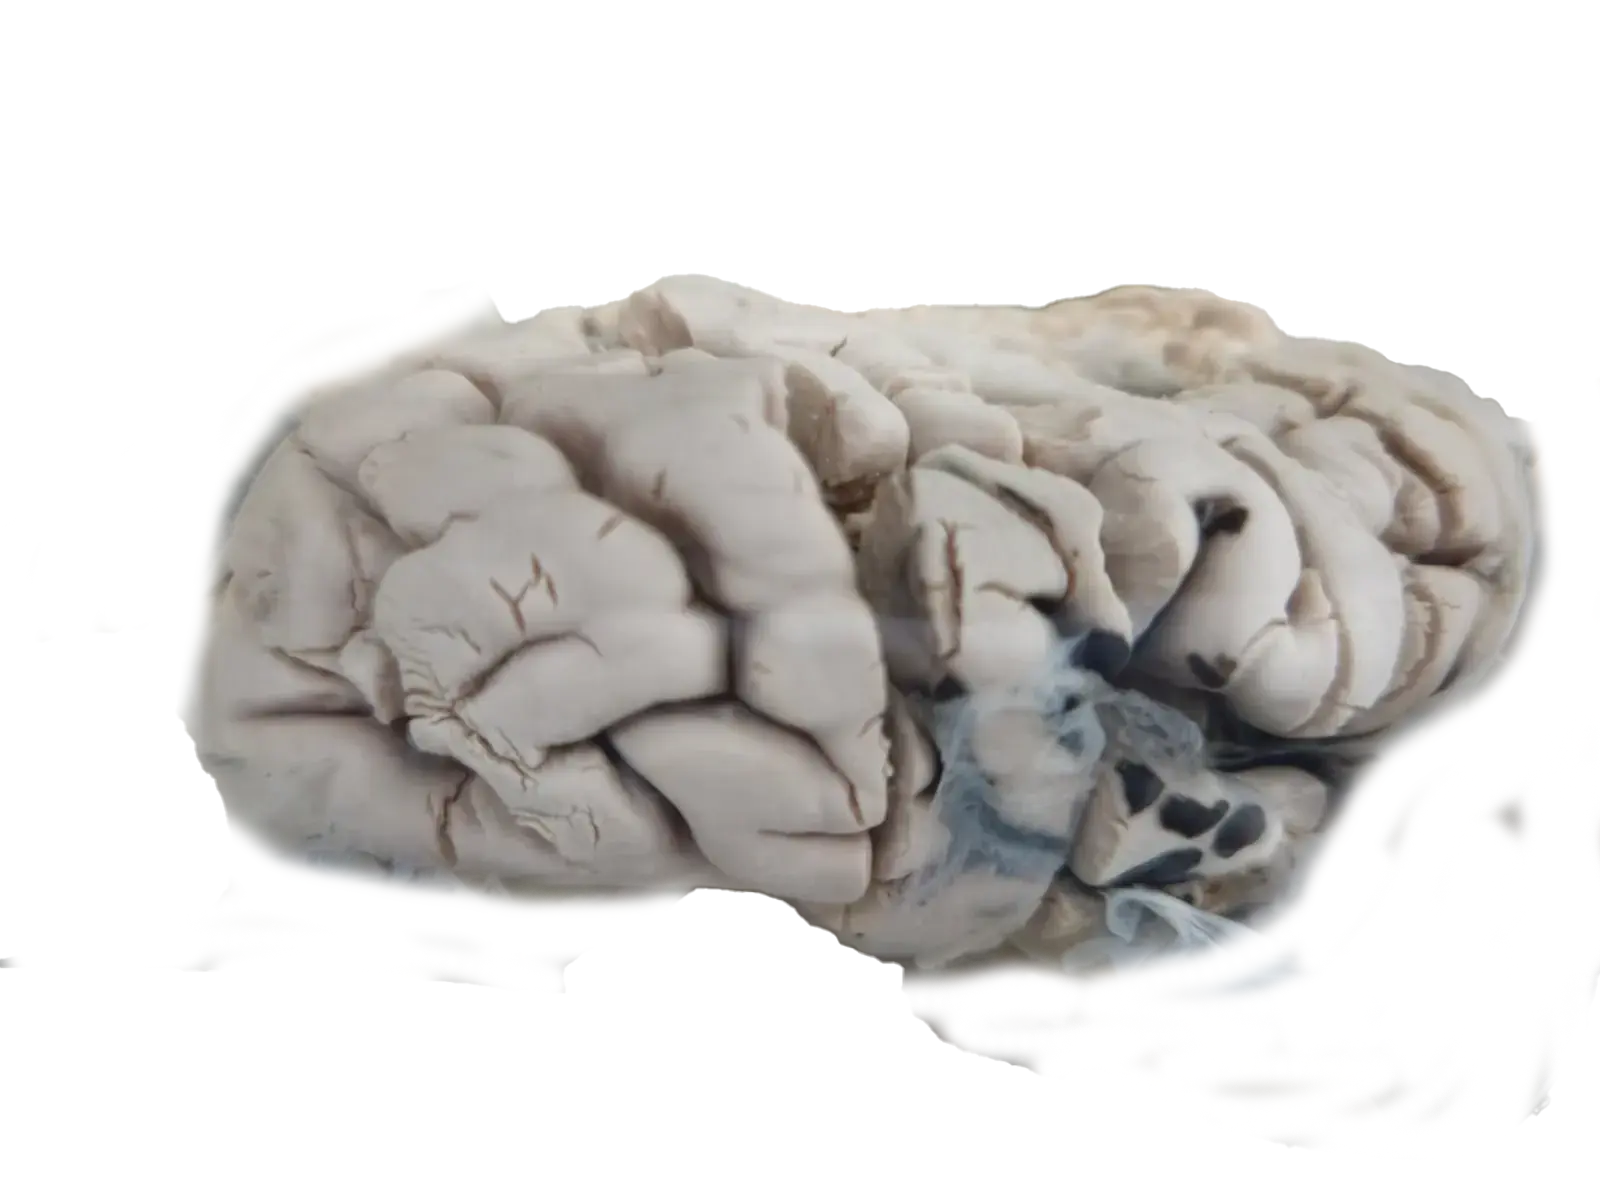
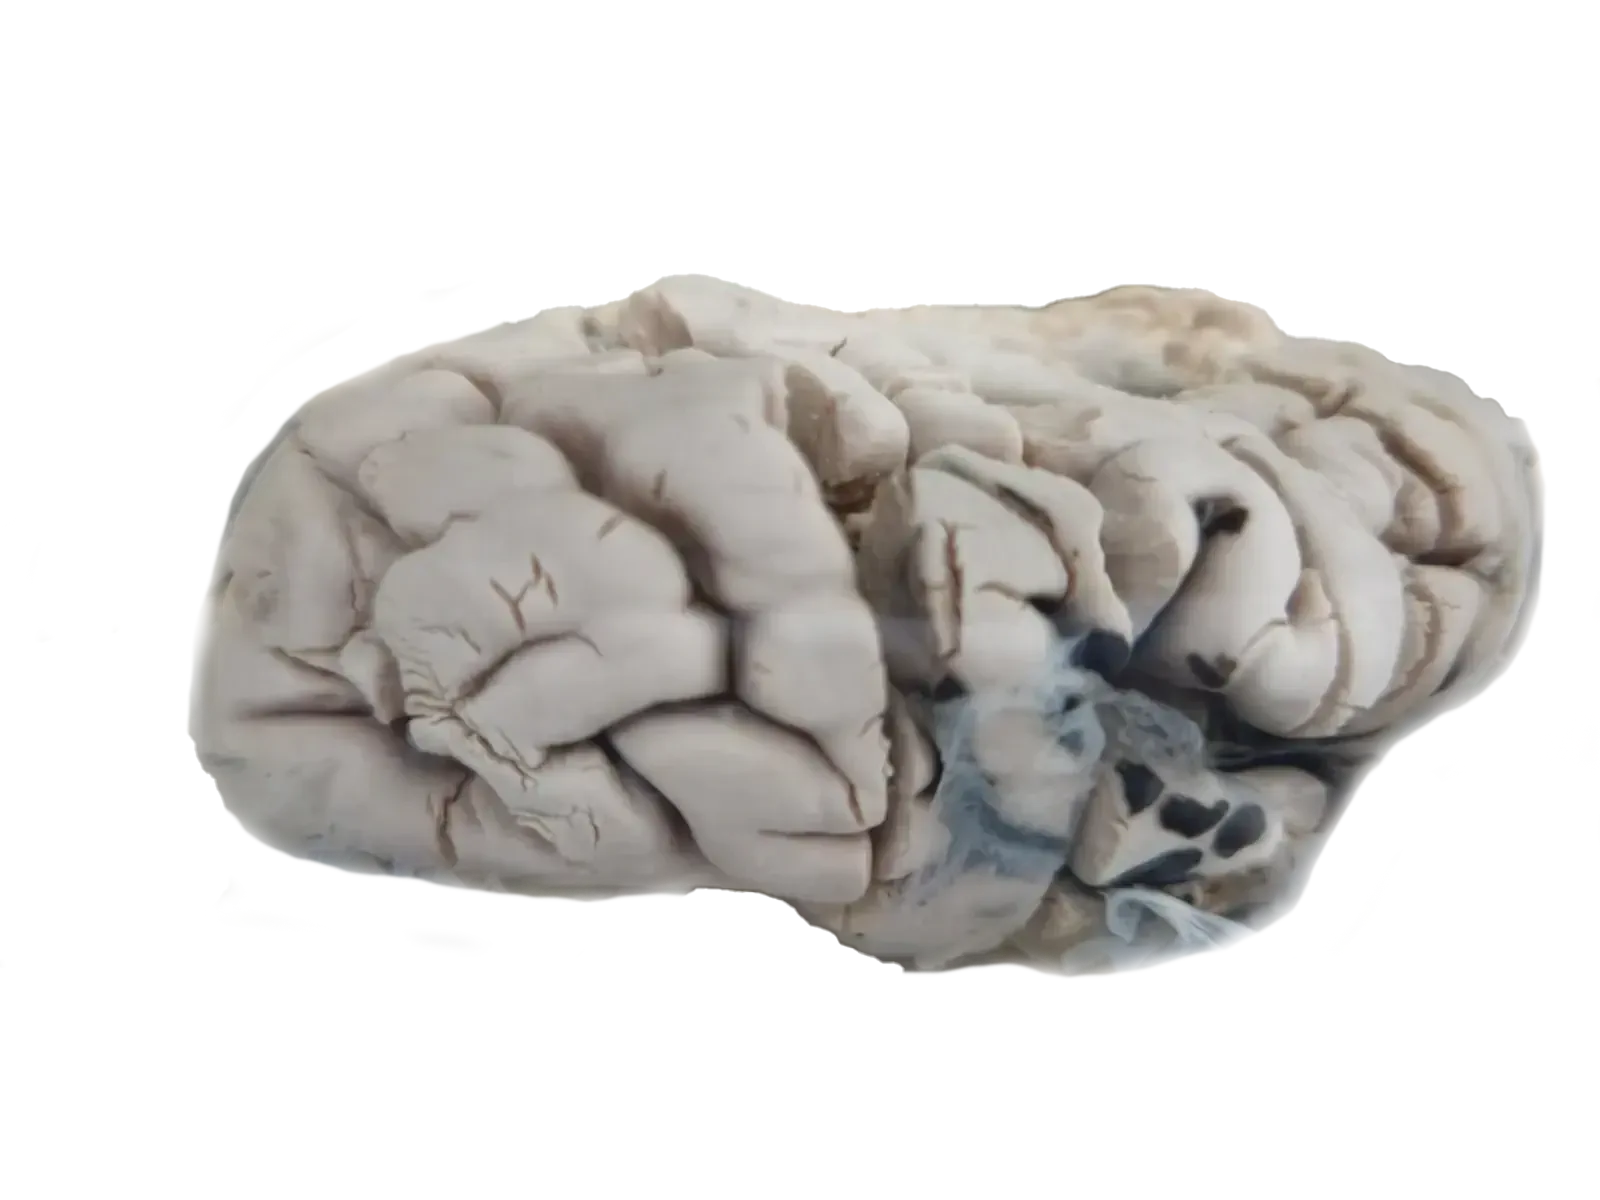
Better header, footer and images

diff --git a/src/index.html b/src/index.html
@@ -34,10 +34,8 @@
     {%- endfor %}
   </table> -->
 
-  <p class="text-center text-xs"><a href="https://anatpat.unicamp.br/indexalfa.html">Referencia</a></p>
-  <p class="text-center text-xs"><a href="https://github.com/JumperLuko/indice-alfabetico-medicina">Repositório</a></p>
-
   <!-- <script src="scripts.js"></script> -->
+  {% include 'footer.njk' %} 
 </body>
 
 </html>

diff --git a/src/input.scss b/src/input.scss
@@ -11,6 +11,9 @@ body{
     background-size: 500px;
     img{
         max-height: 80vh;
+        margin-left: auto;
+        margin-right: auto;
+        display: block;
     }
     .page-title-home > a{
         color: inherit;
